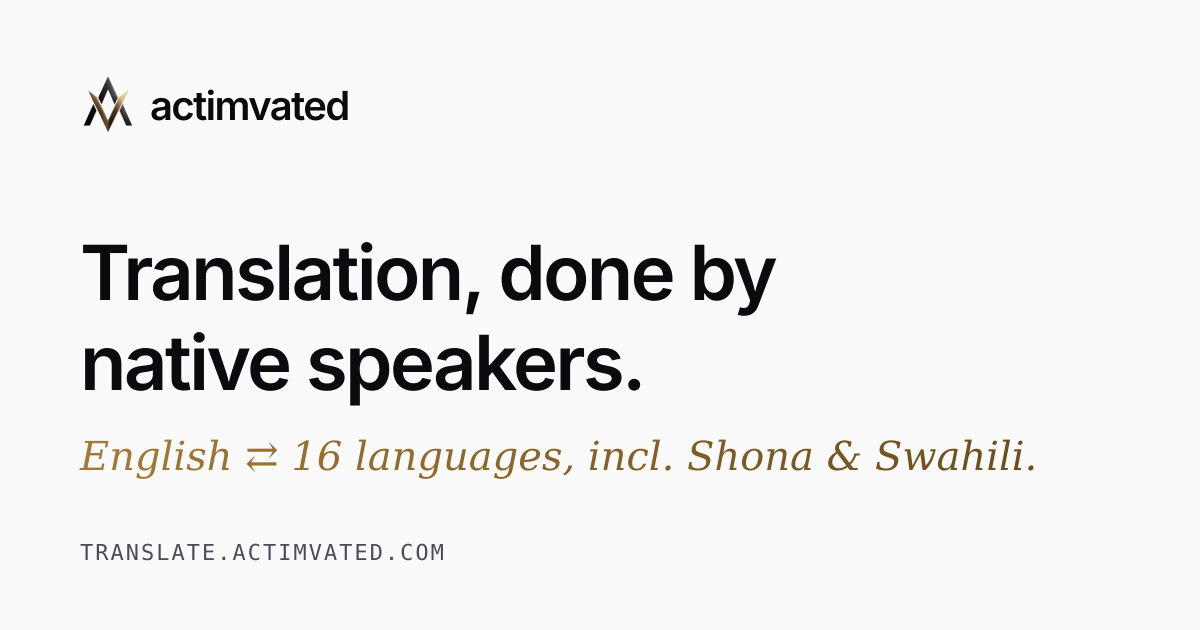
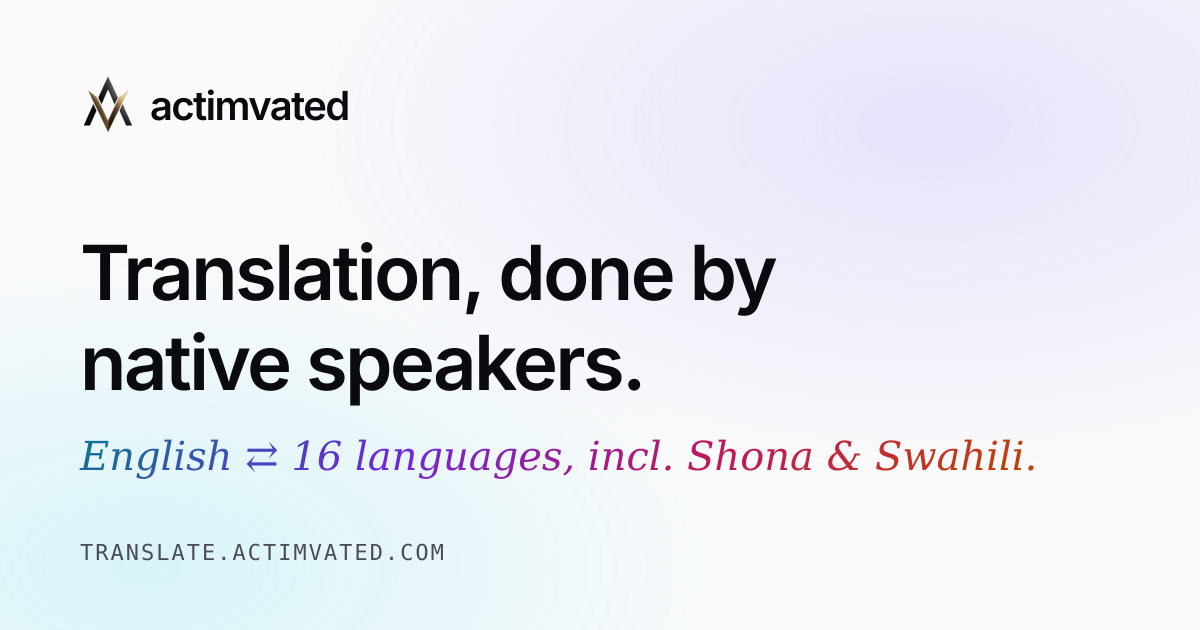
Add files via upload

Changed region(s): [[0.0, 0.6937, 0.8633, 1.0], [0.7708, 0.181, 0.8017, 0.2111]]

diff --git a/languages/index.html b/languages/index.html
@@ -40,9 +40,9 @@
 </header>
 <main id="main">
 <nav class="wrap crumbs" aria-label="Breadcrumb"><ol><li><a href="/">Home</a></li><li aria-current="page">Languages</li></ol></nav>
-<section class="wrap page-hero">
+<section class="wrap page-hero glow">
  <div class="eyebrow">Languages</div>
- <h1>16 language pairs, both directions with English.</h1>
+ <h1><span class="grad">16 language pairs,</span> both directions with English.</h1>
  <p>Each pair is handled by native linguists, with a second linguist reviewing every job. Choose a language for details on the documents we translate and what to tell us when you order.</p>
 </section>
 <section class="wrap" style="padding-bottom:40px"><div class="grid langs" style="margin-top:0"><a class="card lang" href="/languages/english-arabic-translation/"><div style="width:100%"><div class="lrow"><h3>English ⇄ Arabic</h3></div><small>العربية · Arabic is an official language in more than 20 countries across the Middle East and North Africa.</small></div></a><a class="card lang" href="/languages/english-chinese-translation/"><div style="width:100%"><div class="lrow"><h3>English ⇄ Chinese</h3></div><small>中文 · Written Chinese comes in two scripts: Simplified, used in mainland China and Singapore, and Traditional, used in Taiwan, Hong Kong and Macau.</small></div></a><a class="card lang" href="/languages/english-danish-translation/"><div style="width:100%"><div class="lrow"><h3>English ⇄ Danish</h3></div><small>Dansk · Danish is the language of Denmark and a working language for Nordic business.</small></div></a><a class="card lang" href="/languages/english-french-translation/"><div style="width:100%"><div class="lrow"><h3>English ⇄ French</h3></div><small>Français · French is spoken in France, Belgium, Switzerland and Canada, and is an official language in more than 20 African countries.</small></div></a><a class="card lang" href="/languages/english-greek-translation/"><div style="width:100%"><div class="lrow"><h3>English ⇄ Greek</h3></div><small>Ελληνικά · Greek is the language of Greece and Cyprus, written in its own alphabet with modern monotonic accents.</small></div></a><a class="card lang" href="/languages/english-korean-translation/"><div style="width:100%"><div class="lrow"><h3>English ⇄ Korean</h3></div><small>한국어 · Korean is written in Hangul and has distinct levels of formality.</small></div></a><a class="card lang" href="/languages/english-latvian-translation/"><div style="width:100%"><div class="lrow"><h3>English ⇄ Latvian</h3><span class="tag">Hard to staff</span></div><small>Latviešu · Latvian is the official language of Latvia and an official EU language, with fewer than two million native speakers.</small></div></a><a class="card lang" href="/languages/english-mongolian-translation/"><div style="width:100%"><div class="lrow"><h3>English ⇄ Mongolian</h3><span class="tag">Hard to staff</span></div><small>Монгол хэл · Mongolian in Mongolia is written in Cyrillic, while the traditional Mongolian script is used in Inner Mongolia, China.</small></div></a><a class="card lang" href="/languages/english-russian-translation/"><div style="width:100%"><div class="lrow"><h3>English ⇄ Russian</h3></div><small>Русский · Russian is an official language in Russia, Belarus, Kazakhstan and Kyrgyzstan, and is widely used for business across Central Asia and the Caucasus.</small></div></a><a class="card lang" href="/languages/english-shona-translation/"><div style="width:100%"><div class="lrow"><h3>English ⇄ Shona</h3><span class="tag">Hard to staff</span></div><small>chiShona · Shona is the most widely spoken language in Zimbabwe and one of its official languages, with speakers in Mozambique too.</small></div></a><a class="card lang" href="/languages/english-spanish-translation/"><div style="width:100%"><div class="lrow"><h3>English ⇄ Spanish</h3></div><small>Español · Spanish is spoken in Spain, across Latin America and widely in the United States.</small></div></a><a class="card lang" href="/languages/english-swahili-translation/"><div style="width:100%"><div class="lrow"><h3>English ⇄ Swahili</h3><span class="tag">Hard to staff</span></div><small>Kiswahili · Swahili is an official language in Tanzania, Kenya and Uganda, and a working language of the African Union and the East African Community.</small></div></a><a class="card lang" href="/languages/english-swedish-translation/"><div style="width:100%"><div class="lrow"><h3>English ⇄ Swedish</h3></div><small>Svenska · Swedish is the language of Sweden and an official language in Finland.</small></div></a><a class="card lang" href="/languages/english-turkish-translation/"><div style="width:100%"><div class="lrow"><h3>English ⇄ Turkish</h3></div><small>Türkçe · Turkish is the official language of Turkey and an official language of Cyprus.</small></div></a><a class="card lang" href="/languages/english-uzbek-translation/"><div style="width:100%"><div class="lrow"><h3>English ⇄ Uzbek</h3><span class="tag">Hard to staff</span></div><small>Oʻzbekcha · Uzbek is the official language of Uzbekistan.</small></div></a><a class="card lang" href="/languages/english-vietnamese-translation/"><div style="width:100%"><div class="lrow"><h3>English ⇄ Vietnamese</h3></div><small>Tiếng Việt · Vietnamese is written in a Latin-based alphabet with tone marks, and a single misplaced diacritic can change a word&#x27;s meaning.</small></div></a></div></section>

diff --git a/assets/site.css b/assets/site.css
@@ -156,11 +156,28 @@ a.lang{color:inherit}
 .ftcols a{color:var(--text);text-decoration:none}.ftcols a:hover{color:var(--ink);text-decoration:underline}
 @media (max-width:880px){.page-hero h1{font-size:38px}}
 .logo{display:inline-flex;align-items:center;gap:10px}.logo img{display:block}
-/* brand: gold, matching the Actimvated Studio monogram */
-:root{--a:#7A5C24;--b:#5C4318}
-.fl{background:linear-gradient(96deg,#A47A35 0%,#6B4E1C 100%);-webkit-background-clip:text;background-clip:text;color:transparent}
-.dot{background:#B08D57}
-.tag{color:#5C4318;background:#F3EAD8}
-.agency li .dot{background:#C9A465}
-a:hover{color:#7A5C24}
-
+/* brand: multi-colour flow (cyan > violet > pink > orange) */
+:root{--a:#6D28D9;--b:#0E7490;--c1:#0E7490;--c2:#6D28D9;--c3:#BE185D;--c4:#C0400C;
+ --flow:linear-gradient(96deg,#0E7490 0%,#6D28D9 25%,#BE185D 50%,#C0400C 75%,#0E7490 100%);
+ --flow-bright:linear-gradient(96deg,#22D3EE 0%,#A78BFA 33%,#F472B6 66%,#FF6B35 100%)}
+.fl,.grad{background-image:var(--flow);background-size:200% auto;background-repeat:repeat-x;-webkit-background-clip:text;background-clip:text;color:transparent;-webkit-text-fill-color:transparent;animation:flow 12s linear infinite}
+.grad{font-family:'Fraunces',Georgia,serif;font-style:italic;font-weight:400;letter-spacing:-.01em;padding-right:.06em}
+@keyframes flow{0%{background-position:0% center}100%{background-position:-200% center}}
+.fact.anchor b{background-image:var(--flow);background-size:200% auto;-webkit-background-clip:text;background-clip:text;color:transparent;-webkit-text-fill-color:transparent;animation:flow 12s linear infinite}
+.glow{position:relative;isolation:isolate}
+.glow::before{content:"";position:absolute;inset:-80px -10vw -220px;z-index:-1;pointer-events:none;background:radial-gradient(46% 50% at 72% 20%,rgba(167,139,250,.18),transparent 70%),radial-gradient(38% 40% at 14% 62%,rgba(34,211,238,.11),transparent 70%)}
+main{overflow-x:clip}
+.contact{position:relative;overflow:hidden;isolation:isolate}
+.contact::before{content:"";position:absolute;inset:0;z-index:-1;pointer-events:none;background:radial-gradient(50% 60% at 50% 0%,rgba(167,139,250,.16),transparent 70%),radial-gradient(40% 50% at 50% 100%,rgba(255,107,53,.09),transparent 70%)}
+.quote{position:relative}
+.quote::before{content:"";position:absolute;inset:-1px;border-radius:17px;padding:1px;background:linear-gradient(135deg,rgba(167,139,250,.55),rgba(244,114,182,.3) 40%,rgba(255,107,53,.2));-webkit-mask:linear-gradient(#000 0 0) content-box,linear-gradient(#000 0 0);-webkit-mask-composite:xor;mask-composite:exclude;pointer-events:none}
+.dot{background:#A78BFA}
+.chip:nth-child(4n+1) .dot{background:#22D3EE}.chip:nth-child(4n+2) .dot{background:#A78BFA}.chip:nth-child(4n+3) .dot{background:#F472B6}.chip:nth-child(4n+4) .dot{background:#FF6B35}
+.tag{color:#5B21B6;background:#EDE9FE}
+.agency{position:relative;overflow:hidden;isolation:isolate}
+.agency::before{content:"";position:absolute;inset:0;z-index:-1;pointer-events:none;background:radial-gradient(45% 60% at 85% 15%,rgba(167,139,250,.22),transparent 70%),radial-gradient(40% 55% at 10% 95%,rgba(34,211,238,.14),transparent 70%)}
+.agency li:nth-child(4n+1) .dot{background:#22D3EE}.agency li:nth-child(4n+2) .dot{background:#A78BFA}.agency li:nth-child(4n+3) .dot{background:#F472B6}.agency li:nth-child(4n+4) .dot{background:#FF6B35}
+.svc .n{color:#6D28D9}
+a:hover{color:#6D28D9}
+:focus-visible{outline-color:#6D28D9}
+@media (prefers-reduced-motion:reduce){.fl,.grad,.fact.anchor b{animation:none}}

diff --git a/languages/english-shona-translation/index.html b/languages/english-shona-translation/index.html
@@ -40,9 +40,9 @@
 </header>
 <main id="main">
 <nav class="wrap crumbs" aria-label="Breadcrumb"><ol><li><a href="/">Home</a></li><li><a href="/languages/">Languages</a></li><li aria-current="page">English ⇄ Shona</li></ol></nav>
-<section class="wrap page-hero">
+<section class="wrap page-hero glow">
  <div class="eyebrow">chiShona · EN ⇄ SN</div>
- <h1>English to Shona translation, done by native speakers.</h1>
+ <h1>English to <span class="grad">Shona</span> translation, done by native speakers.</h1>
  <p>Shona is the most widely spoken language in Zimbabwe and one of its official languages, with speakers in Mozambique too. Professional English–Shona translators are hard to find, which makes Shona one of the pairs agencies most often need help with. We translate in both directions, English to Shona and Shona to English, with a second linguist reviewing every job.</p>
  <div class="ctas"><a class="btn btn-dark" href="mailto:studio@actimvated.com?subject=Quote%20request%3A%20English%20%3E%20Shona">Get a Shona quote <span aria-hidden="true">→</span></a><a class="btn btn-light" href="/#quote">Use the quote form</a></div>
  <div class="chips"><span class="chip"><span class="dot" aria-hidden="true"></span>Native Shona linguists</span><span class="chip"><span class="dot" aria-hidden="true"></span>Independent second review</span><span class="chip"><span class="dot" aria-hidden="true"></span>Fixed quote in one business day</span><span class="chip"><span class="dot" aria-hidden="true"></span>Hard-to-staff pair</span></div>

diff --git a/languages/english-swahili-translation/index.html b/languages/english-swahili-translation/index.html
@@ -40,9 +40,9 @@
 </header>
 <main id="main">
 <nav class="wrap crumbs" aria-label="Breadcrumb"><ol><li><a href="/">Home</a></li><li><a href="/languages/">Languages</a></li><li aria-current="page">English ⇄ Swahili</li></ol></nav>
-<section class="wrap page-hero">
+<section class="wrap page-hero glow">
  <div class="eyebrow">Kiswahili · EN ⇄ SW</div>
- <h1>English to Swahili translation, done by native speakers.</h1>
+ <h1>English to <span class="grad">Swahili</span> translation, done by native speakers.</h1>
  <p>Swahili is an official language in Tanzania, Kenya and Uganda, and a working language of the African Union and the East African Community. It is the most widely used language for reaching audiences across East Africa. We translate in both directions, English to Swahili and Swahili to English, with a second linguist reviewing every job.</p>
  <div class="ctas"><a class="btn btn-dark" href="mailto:studio@actimvated.com?subject=Quote%20request%3A%20English%20%3E%20Swahili">Get a Swahili quote <span aria-hidden="true">→</span></a><a class="btn btn-light" href="/#quote">Use the quote form</a></div>
  <div class="chips"><span class="chip"><span class="dot" aria-hidden="true"></span>Native Swahili linguists</span><span class="chip"><span class="dot" aria-hidden="true"></span>Independent second review</span><span class="chip"><span class="dot" aria-hidden="true"></span>Fixed quote in one business day</span><span class="chip"><span class="dot" aria-hidden="true"></span>Hard-to-staff pair</span></div>

diff --git a/languages/english-mongolian-translation/index.html b/languages/english-mongolian-translation/index.html
@@ -40,9 +40,9 @@
 </header>
 <main id="main">
 <nav class="wrap crumbs" aria-label="Breadcrumb"><ol><li><a href="/">Home</a></li><li><a href="/languages/">Languages</a></li><li aria-current="page">English ⇄ Mongolian</li></ol></nav>
-<section class="wrap page-hero">
+<section class="wrap page-hero glow">
  <div class="eyebrow">Монгол хэл · EN ⇄ MN</div>
- <h1>English to Mongolian translation, done by native speakers.</h1>
+ <h1>English to <span class="grad">Mongolian</span> translation, done by native speakers.</h1>
  <p>Mongolian in Mongolia is written in Cyrillic, while the traditional Mongolian script is used in Inner Mongolia, China. Qualified English–Mongolian translators are rare outside Mongolia. We translate in both directions, English to Mongolian and Mongolian to English, with a second linguist reviewing every job.</p>
  <div class="ctas"><a class="btn btn-dark" href="mailto:studio@actimvated.com?subject=Quote%20request%3A%20English%20%3E%20Mongolian">Get a Mongolian quote <span aria-hidden="true">→</span></a><a class="btn btn-light" href="/#quote">Use the quote form</a></div>
  <div class="chips"><span class="chip"><span class="dot" aria-hidden="true"></span>Native Mongolian linguists</span><span class="chip"><span class="dot" aria-hidden="true"></span>Independent second review</span><span class="chip"><span class="dot" aria-hidden="true"></span>Fixed quote in one business day</span><span class="chip"><span class="dot" aria-hidden="true"></span>Hard-to-staff pair</span></div>

diff --git a/languages/english-uzbek-translation/index.html b/languages/english-uzbek-translation/index.html
@@ -40,9 +40,9 @@
 </header>
 <main id="main">
 <nav class="wrap crumbs" aria-label="Breadcrumb"><ol><li><a href="/">Home</a></li><li><a href="/languages/">Languages</a></li><li aria-current="page">English ⇄ Uzbek</li></ol></nav>
-<section class="wrap page-hero">
+<section class="wrap page-hero glow">
  <div class="eyebrow">Oʻzbekcha · EN ⇄ UZ</div>
- <h1>English to Uzbek translation, done by native speakers.</h1>
+ <h1>English to <span class="grad">Uzbek</span> translation, done by native speakers.</h1>
  <p>Uzbek is the official language of Uzbekistan. Its official script is Latin, but Cyrillic is still widely used, so the same document can need two different versions. Qualified English–Uzbek translators are hard to find. We translate in both directions, English to Uzbek and Uzbek to English, with a second linguist reviewing every job.</p>
  <div class="ctas"><a class="btn btn-dark" href="mailto:studio@actimvated.com?subject=Quote%20request%3A%20English%20%3E%20Uzbek">Get an Uzbek quote <span aria-hidden="true">→</span></a><a class="btn btn-light" href="/#quote">Use the quote form</a></div>
  <div class="chips"><span class="chip"><span class="dot" aria-hidden="true"></span>Native Uzbek linguists</span><span class="chip"><span class="dot" aria-hidden="true"></span>Independent second review</span><span class="chip"><span class="dot" aria-hidden="true"></span>Fixed quote in one business day</span><span class="chip"><span class="dot" aria-hidden="true"></span>Hard-to-staff pair</span></div>

diff --git a/languages/english-latvian-translation/index.html b/languages/english-latvian-translation/index.html
@@ -40,9 +40,9 @@
 </header>
 <main id="main">
 <nav class="wrap crumbs" aria-label="Breadcrumb"><ol><li><a href="/">Home</a></li><li><a href="/languages/">Languages</a></li><li aria-current="page">English ⇄ Latvian</li></ol></nav>
-<section class="wrap page-hero">
+<section class="wrap page-hero glow">
  <div class="eyebrow">Latviešu · EN ⇄ LV</div>
- <h1>English to Latvian translation, done by native speakers.</h1>
+ <h1>English to <span class="grad">Latvian</span> translation, done by native speakers.</h1>
  <p>Latvian is the official language of Latvia and an official EU language, with fewer than two million native speakers. That small pool is why many agencies struggle to staff Latvian work quickly. We translate in both directions, English to Latvian and Latvian to English, with a second linguist reviewing every job.</p>
  <div class="ctas"><a class="btn btn-dark" href="mailto:studio@actimvated.com?subject=Quote%20request%3A%20English%20%3E%20Latvian">Get a Latvian quote <span aria-hidden="true">→</span></a><a class="btn btn-light" href="/#quote">Use the quote form</a></div>
  <div class="chips"><span class="chip"><span class="dot" aria-hidden="true"></span>Native Latvian linguists</span><span class="chip"><span class="dot" aria-hidden="true"></span>Independent second review</span><span class="chip"><span class="dot" aria-hidden="true"></span>Fixed quote in one business day</span><span class="chip"><span class="dot" aria-hidden="true"></span>Hard-to-staff pair</span></div>

diff --git a/languages/english-vietnamese-translation/index.html b/languages/english-vietnamese-translation/index.html
@@ -40,9 +40,9 @@
 </header>
 <main id="main">
 <nav class="wrap crumbs" aria-label="Breadcrumb"><ol><li><a href="/">Home</a></li><li><a href="/languages/">Languages</a></li><li aria-current="page">English ⇄ Vietnamese</li></ol></nav>
-<section class="wrap page-hero">
+<section class="wrap page-hero glow">
  <div class="eyebrow">Tiếng Việt · EN ⇄ VI</div>
- <h1>English to Vietnamese translation, done by native speakers.</h1>
+ <h1>English to <span class="grad">Vietnamese</span> translation, done by native speakers.</h1>
  <p>Vietnamese is written in a Latin-based alphabet with tone marks, and a single misplaced diacritic can change a word&#x27;s meaning. Vietnam&#x27;s manufacturing and export sectors generate a steady flow of business and technical documents. We translate in both directions, English to Vietnamese and Vietnamese to English, with a second linguist reviewing every job.</p>
  <div class="ctas"><a class="btn btn-dark" href="mailto:studio@actimvated.com?subject=Quote%20request%3A%20English%20%3E%20Vietnamese">Get a Vietnamese quote <span aria-hidden="true">→</span></a><a class="btn btn-light" href="/#quote">Use the quote form</a></div>
  <div class="chips"><span class="chip"><span class="dot" aria-hidden="true"></span>Native Vietnamese linguists</span><span class="chip"><span class="dot" aria-hidden="true"></span>Independent second review</span><span class="chip"><span class="dot" aria-hidden="true"></span>Fixed quote in one business day</span></div>

diff --git a/languages/english-arabic-translation/index.html b/languages/english-arabic-translation/index.html
@@ -40,9 +40,9 @@
 </header>
 <main id="main">
 <nav class="wrap crumbs" aria-label="Breadcrumb"><ol><li><a href="/">Home</a></li><li><a href="/languages/">Languages</a></li><li aria-current="page">English ⇄ Arabic</li></ol></nav>
-<section class="wrap page-hero">
+<section class="wrap page-hero glow">
  <div class="eyebrow">العربية · EN ⇄ AR</div>
- <h1>English to Arabic translation, done by native speakers.</h1>
+ <h1>English to <span class="grad">Arabic</span> translation, done by native speakers.</h1>
  <p>Arabic is an official language in more than 20 countries across the Middle East and North Africa. Formal and written communication uses Modern Standard Arabic, while marketing often needs to sound right for a specific region. We translate in both directions, English to Arabic and Arabic to English, with a second linguist reviewing every job.</p>
  <div class="ctas"><a class="btn btn-dark" href="mailto:studio@actimvated.com?subject=Quote%20request%3A%20English%20%3E%20Arabic">Get an Arabic quote <span aria-hidden="true">→</span></a><a class="btn btn-light" href="/#quote">Use the quote form</a></div>
  <div class="chips"><span class="chip"><span class="dot" aria-hidden="true"></span>Native Arabic linguists</span><span class="chip"><span class="dot" aria-hidden="true"></span>Independent second review</span><span class="chip"><span class="dot" aria-hidden="true"></span>Fixed quote in one business day</span></div>

diff --git a/languages/english-chinese-translation/index.html b/languages/english-chinese-translation/index.html
@@ -40,9 +40,9 @@
 </header>
 <main id="main">
 <nav class="wrap crumbs" aria-label="Breadcrumb"><ol><li><a href="/">Home</a></li><li><a href="/languages/">Languages</a></li><li aria-current="page">English ⇄ Chinese</li></ol></nav>
-<section class="wrap page-hero">
+<section class="wrap page-hero glow">
  <div class="eyebrow">中文 · EN ⇄ ZH</div>
- <h1>English to Chinese translation, done by native speakers.</h1>
+ <h1>English to <span class="grad">Chinese</span> translation, done by native speakers.</h1>
  <p>Written Chinese comes in two scripts: Simplified, used in mainland China and Singapore, and Traditional, used in Taiwan, Hong Kong and Macau. Choosing the right one matters as much as the translation itself. We translate in both directions, English to Chinese and Chinese to English, with a second linguist reviewing every job.</p>
  <div class="ctas"><a class="btn btn-dark" href="mailto:studio@actimvated.com?subject=Quote%20request%3A%20English%20%3E%20Chinese">Get a Chinese quote <span aria-hidden="true">→</span></a><a class="btn btn-light" href="/#quote">Use the quote form</a></div>
  <div class="chips"><span class="chip"><span class="dot" aria-hidden="true"></span>Native Chinese linguists</span><span class="chip"><span class="dot" aria-hidden="true"></span>Independent second review</span><span class="chip"><span class="dot" aria-hidden="true"></span>Fixed quote in one business day</span></div>

diff --git a/languages/english-danish-translation/index.html b/languages/english-danish-translation/index.html
@@ -40,9 +40,9 @@
 </header>
 <main id="main">
 <nav class="wrap crumbs" aria-label="Breadcrumb"><ol><li><a href="/">Home</a></li><li><a href="/languages/">Languages</a></li><li aria-current="page">English ⇄ Danish</li></ol></nav>
-<section class="wrap page-hero">
+<section class="wrap page-hero glow">
  <div class="eyebrow">Dansk · EN ⇄ DA</div>
- <h1>English to Danish translation, done by native speakers.</h1>
+ <h1>English to <span class="grad">Danish</span> translation, done by native speakers.</h1>
  <p>Danish is the language of Denmark and a working language for Nordic business. Danish readers expect clear, direct prose, and Danish companies often need their English documents to read as naturally as the originals. We translate in both directions, English to Danish and Danish to English, with a second linguist reviewing every job.</p>
  <div class="ctas"><a class="btn btn-dark" href="mailto:studio@actimvated.com?subject=Quote%20request%3A%20English%20%3E%20Danish">Get a Danish quote <span aria-hidden="true">→</span></a><a class="btn btn-light" href="/#quote">Use the quote form</a></div>
  <div class="chips"><span class="chip"><span class="dot" aria-hidden="true"></span>Native Danish linguists</span><span class="chip"><span class="dot" aria-hidden="true"></span>Independent second review</span><span class="chip"><span class="dot" aria-hidden="true"></span>Fixed quote in one business day</span></div>

diff --git a/languages/english-swedish-translation/index.html b/languages/english-swedish-translation/index.html
@@ -40,9 +40,9 @@
 </header>
 <main id="main">
 <nav class="wrap crumbs" aria-label="Breadcrumb"><ol><li><a href="/">Home</a></li><li><a href="/languages/">Languages</a></li><li aria-current="page">English ⇄ Swedish</li></ol></nav>
-<section class="wrap page-hero">
+<section class="wrap page-hero glow">
  <div class="eyebrow">Svenska · EN ⇄ SV</div>
- <h1>English to Swedish translation, done by native speakers.</h1>
+ <h1>English to <span class="grad">Swedish</span> translation, done by native speakers.</h1>
  <p>Swedish is the language of Sweden and an official language in Finland. Swedish readers expect clear, plain writing, and Swedish companies often need English that reads as naturally as their originals. We translate in both directions, English to Swedish and Swedish to English, with a second linguist reviewing every job.</p>
  <div class="ctas"><a class="btn btn-dark" href="mailto:studio@actimvated.com?subject=Quote%20request%3A%20English%20%3E%20Swedish">Get a Swedish quote <span aria-hidden="true">→</span></a><a class="btn btn-light" href="/#quote">Use the quote form</a></div>
  <div class="chips"><span class="chip"><span class="dot" aria-hidden="true"></span>Native Swedish linguists</span><span class="chip"><span class="dot" aria-hidden="true"></span>Independent second review</span><span class="chip"><span class="dot" aria-hidden="true"></span>Fixed quote in one business day</span></div>
